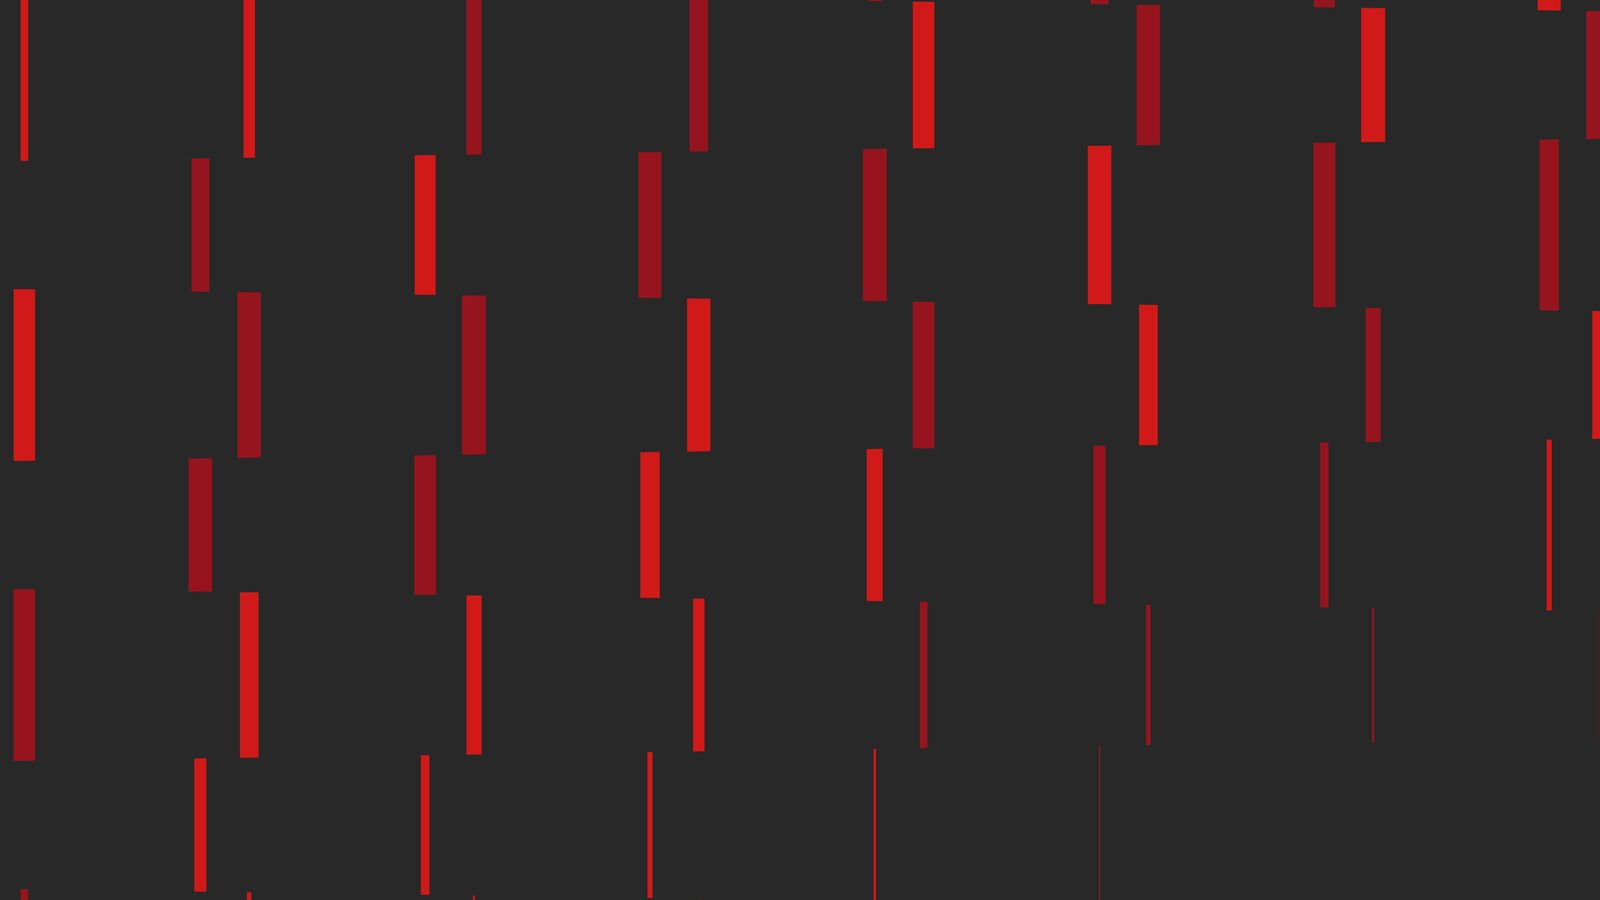
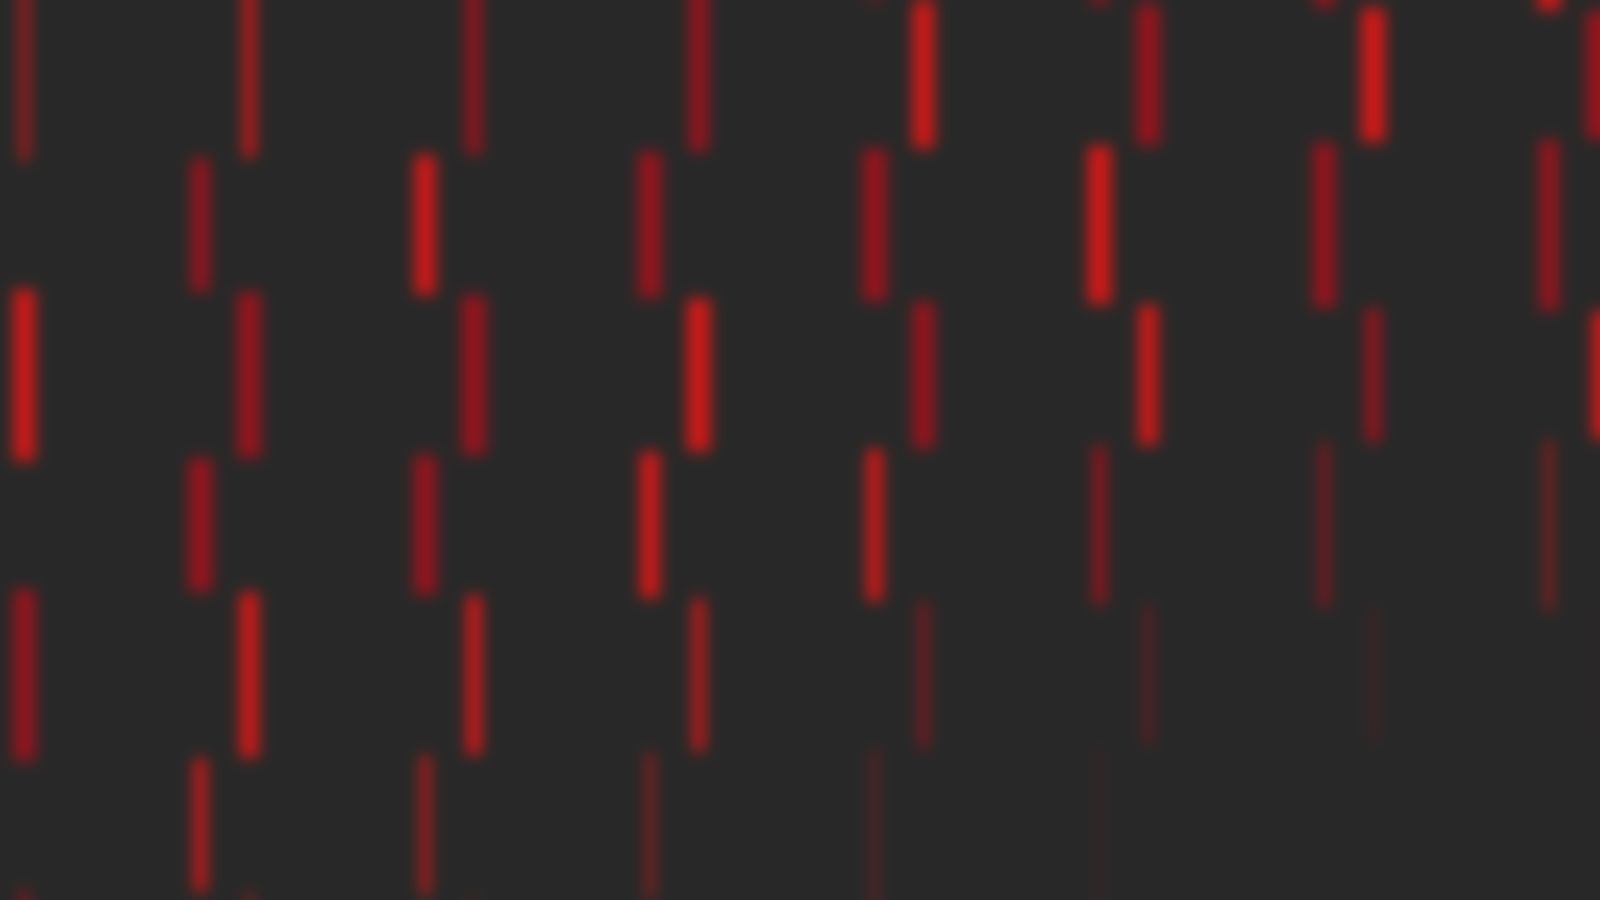
v1.51: softer (slightly blurred) stripes background; frosted previous/following game cards again
Claude-Session: https://claude.ai/code/session_01VMaw1RNinh1j9DMArVUfZ8

diff --git a/www/index.html b/www/index.html
@@ -344,7 +344,7 @@ function GameCard({kind,g,now,L}){
  const nm=n=>html`<div class=${'text-2xl leading-tight '+(n===ME?'font-extrabold':'font-normal')}>${n}</div>`;
  const df=Math.max(0,g.t-now),u=[['ימים',df/D|0],['שעות',(df%D)/H|0],['דקות',(df%H)/6e4|0],['שניות',(df%6e4)/1e3|0]];
  const open=()=>{A.setGm(g);window.scrollTo(0,0)};
- return html`<div class=${'rounded-2xl p-4 '+(red?'text-white':'sf solid-card')} style=${red?{background:'linear-gradient(135deg,#D21919,var(--blk))'}:null}>
+ return html`<div class=${'rounded-2xl p-4 '+(red?'text-white':'sf')} style=${red?{background:'linear-gradient(135deg,#D21919,var(--blk))'}:null}>
  ${L?html`<${LiveCard} L=${L} g=${g}/>`:html`
   <div class=${'text-sm mb-3 text-center '+op}>${kind==='prev'?'המשחק הקודם':kind==='after'?'המשחק שאחריו':'המשחק הבא'} · ${cmp(g)}</div>
   <div class="flex items-center justify-between gap-2 mb-3"><div class="shrink-0"><${Cr} n=${hm} s=${60}/></div>

diff --git a/www/sw.js b/www/sw.js
@@ -1,7 +1,7 @@
 // Service worker: works offline after the first visit.
 // data.json is network-first (fresh results when online, last copy when offline);
 // everything else is cache-first with a background refresh.
-const CACHE = 'hpj-v1.50';
+const CACHE = 'hpj-v1.51';
 const CORE = [
   './', './index.html', './manifest.webmanifest', './data.json', './crests.json', './photos.json',
   './icons/icon-192.png', './icons/icon-512.png', './icons/notify-badge.png',

diff --git a/www/version.js b/www/version.js
@@ -1,1 +1,1 @@
-window.APP_VERSION='1.50';
+window.APP_VERSION='1.51';

diff --git a/CHANGELOG.md b/CHANGELOG.md
@@ -3,6 +3,10 @@
 כל גרסה של האפליקציה מקבלת כאן פסקה משלה, והפסקה הזו מופיעה גם בעמוד הגרסה ב-GitHub Releases.
 הגרסה החדשה ביותר למעלה.
 
+## 1.51
+- רקע הפסים מטושטש מעט, כך שהוא רך יותר ולא מתחרה בתוכן.
+- כרטיסי המשחק הקודם והמשחק שאחרי המשחק הבא במסך הבית חזרו להיות מזכוכית חלבית. כרטיס המשחק הבא נשאר אטום.
+
 ## 1.50
 - הטשטוש העדין בחלק העליון של המסך (תמונת הקבוצה המטושטשת, שהייתה רק במסך הבית) מופיע עכשיו בכל המסכים, במצב בהיר ובמצב כהה.
 
